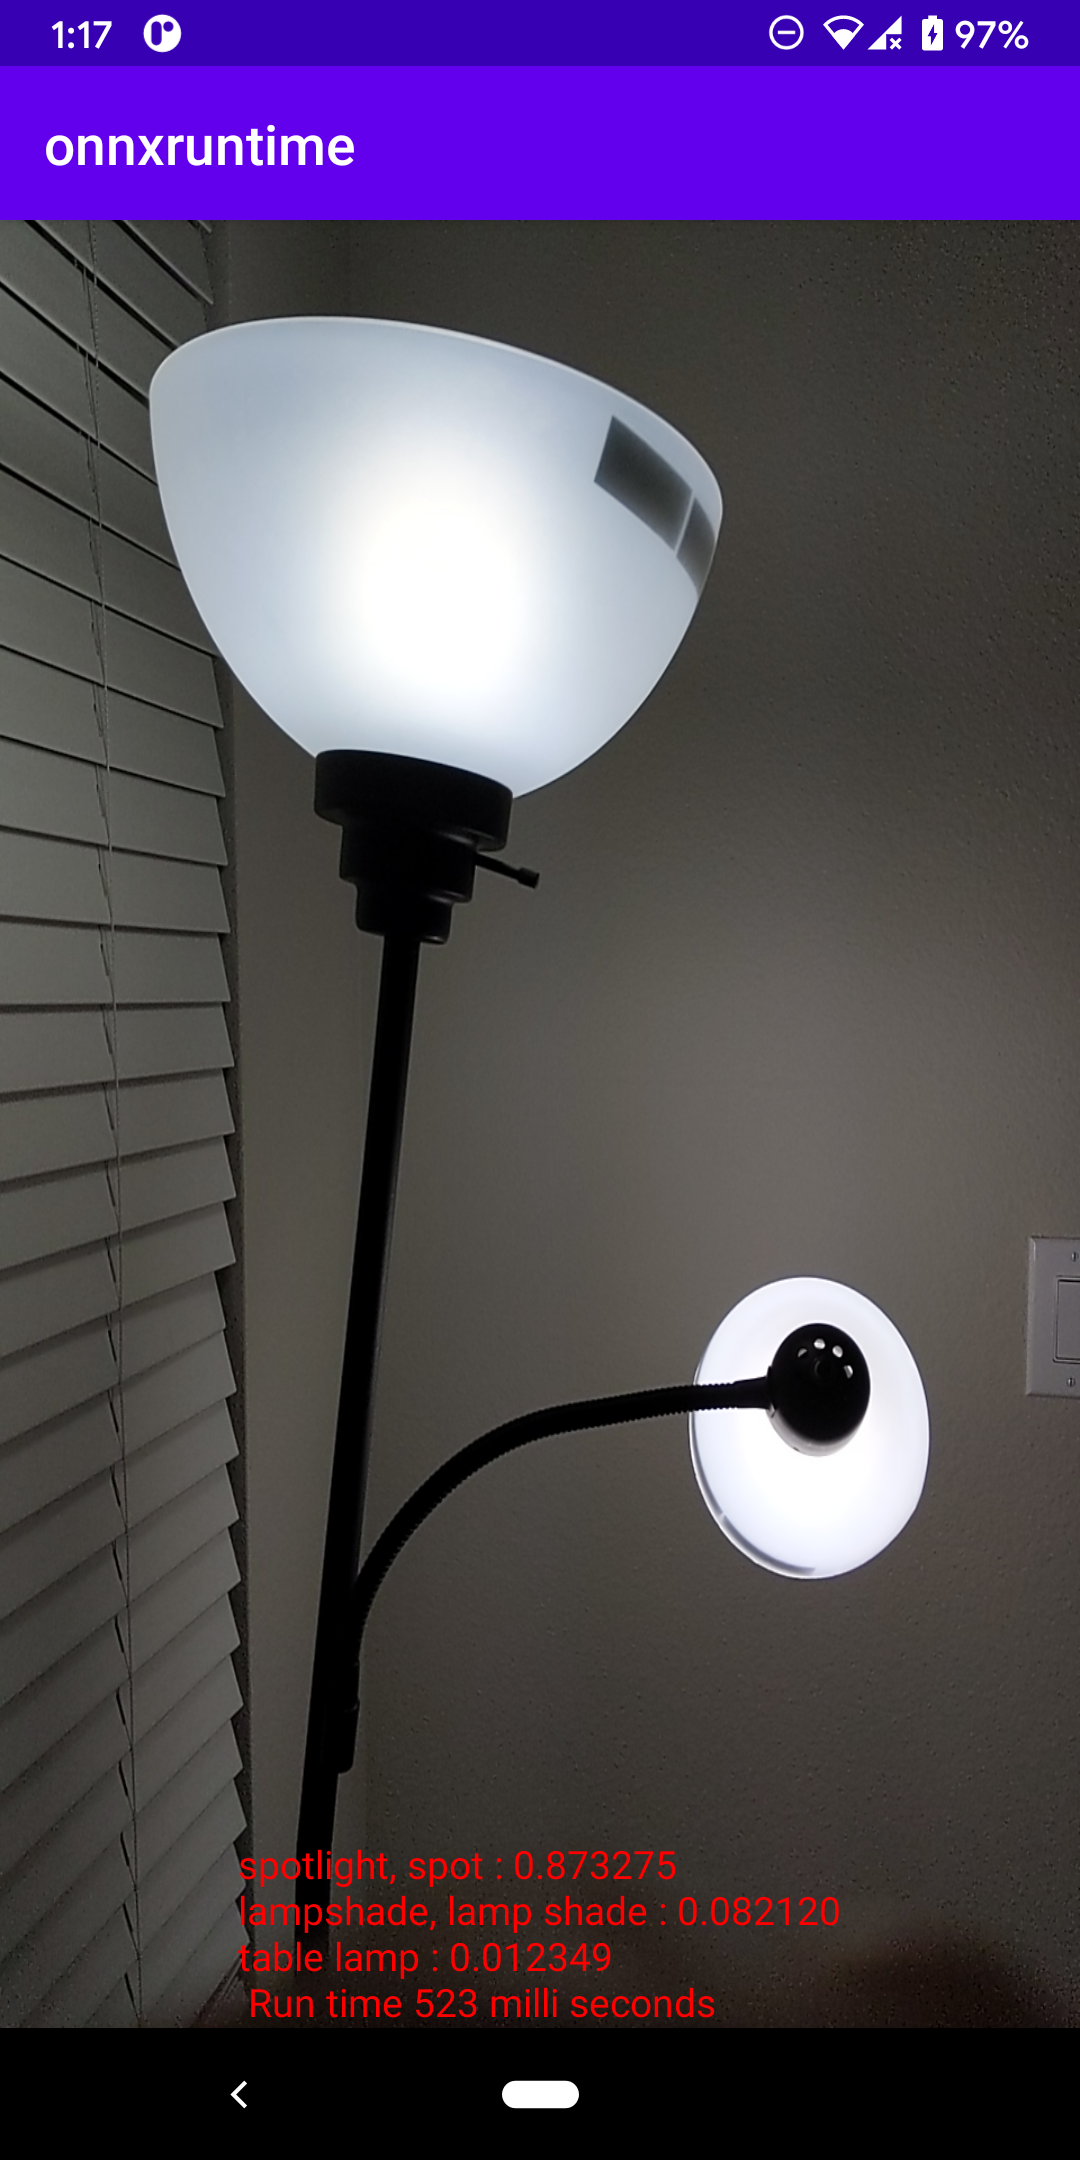
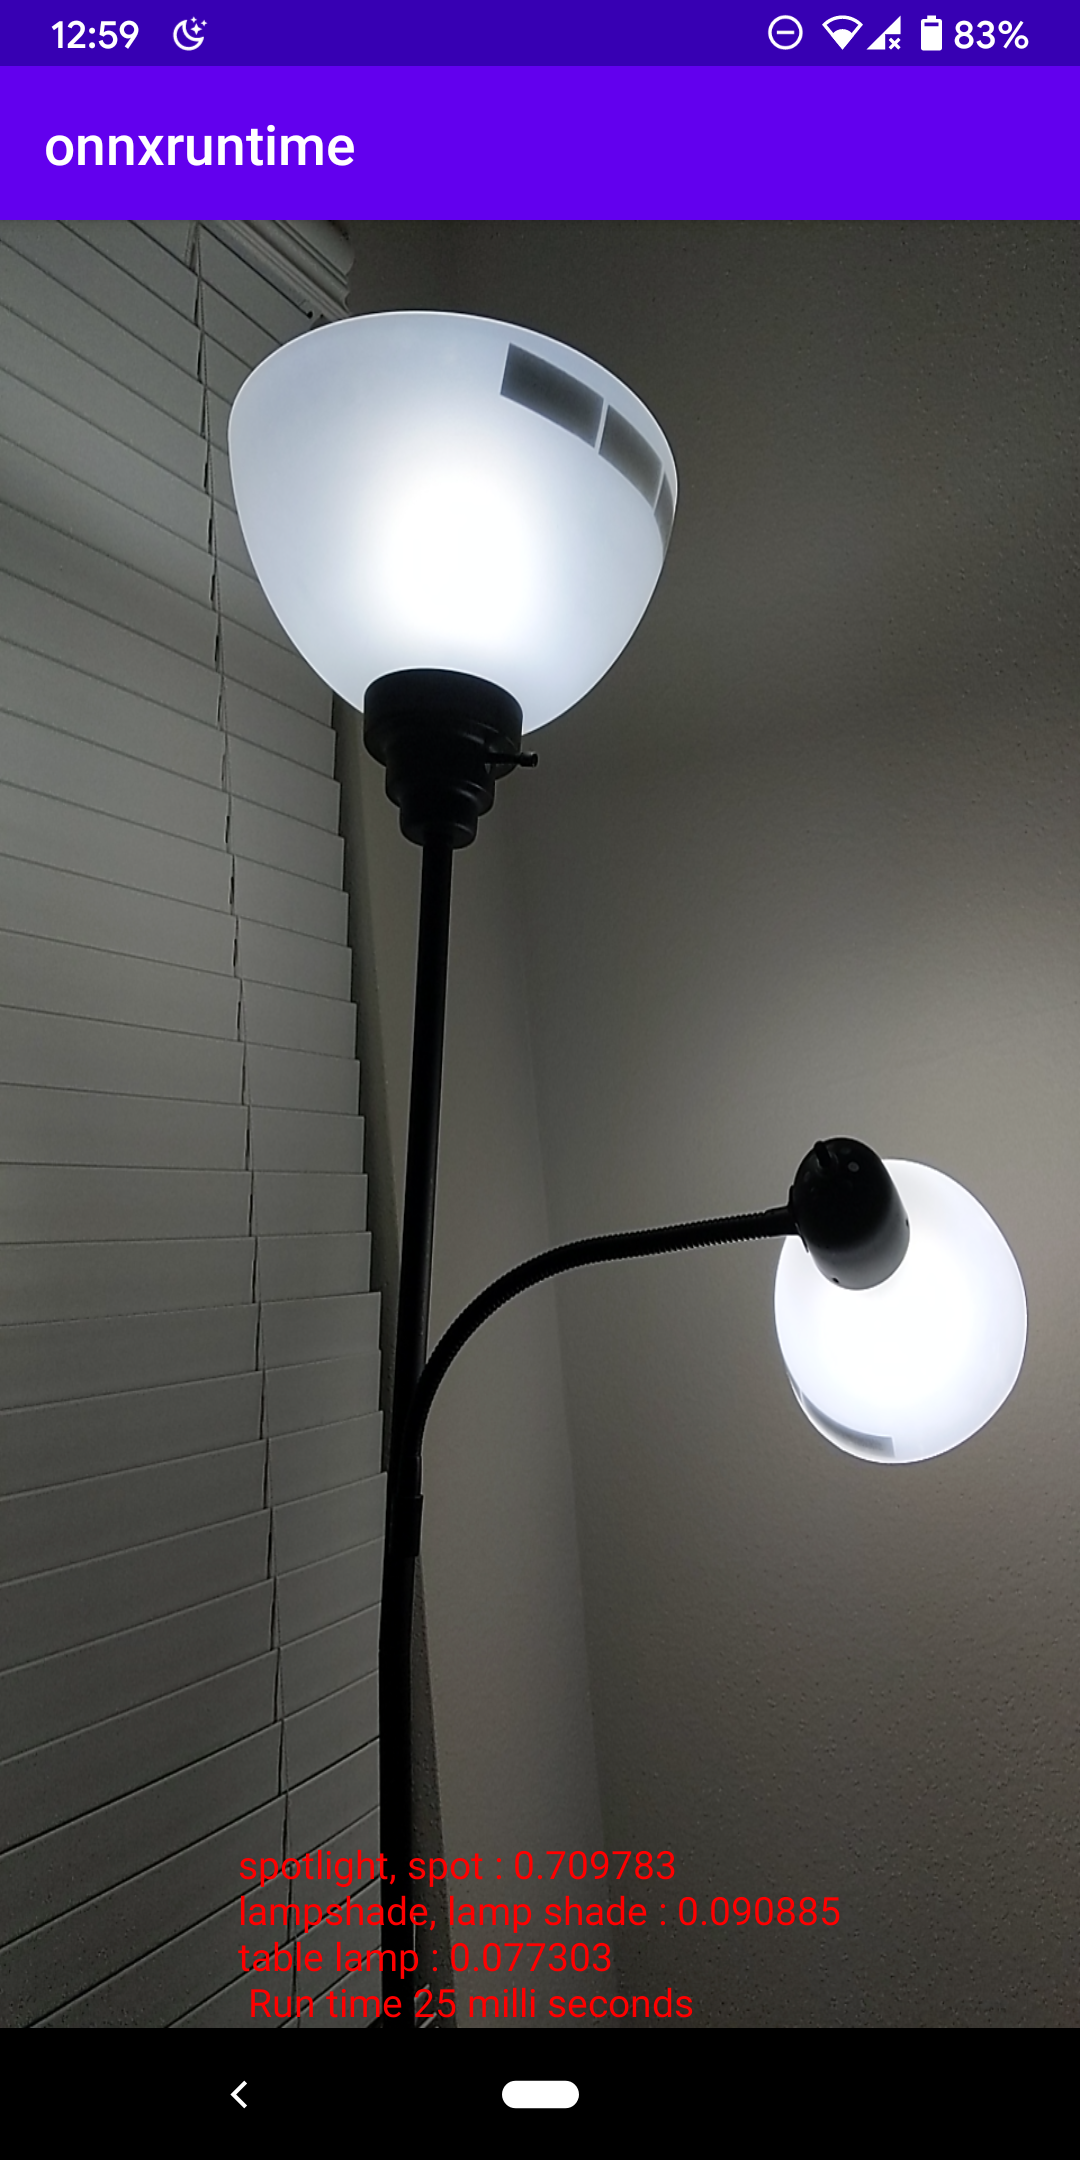
updated read me

diff --git a/README.md b/README.md
@@ -5,17 +5,19 @@ This app uses ONNXRuntime (with NNAPI enabled) for Android C/C++ library to run 
   <table>
     <tr>
       <td>
-        <img src="https://github.com/Rohithkvsp/OnnxRuntimeAndorid/blob/master/imgs/orange.png" width="300" height="500">
-      </td>
-      <td>
         <img src="https://github.com/Rohithkvsp/OnnxRuntimeAndorid/blob/master/imgs/laptop.png" width="300" height="500">
       </td>
       <td>
         <img src="https://github.com/Rohithkvsp/OnnxRuntimeAndorid/blob/master/imgs/lamp.png" width="300" height="500">
       </td>
+      <td>
+        <img src="https://github.com/Rohithkvsp/OnnxRuntimeAndorid/blob/master/imgs/bottle.png" width="300" height="500">
+      </td>
     </tr>
   </table>
- 
+
+
+ #On Google pixel 3 ONNXRuntime (with NNAPI execution provider) took around 25 miliseconds to run MobileNetV2 model
 
 # Implemtation Details
 
@@ -32,7 +34,7 @@ libonnxruntime.so is copied to distribution/lib/arm64-v8a/libonnxruntime.so and 
  - app/CMakeLists.txt is the cmake file to compile the c++ code
 
 # Run the prebuilt apk 
-copy model/mobilenetv2-7.onnx and model/labels.txt to /data/local/tmp directoy on device
+copy model/mobilenetv2-7.onnx and model/labels.txt to /data/local/tmp directory on device
 
     adb push model/mobilenetv2-7.onnx /data/local/tmp
     adb push model/labels.txt /data/local/tmp
